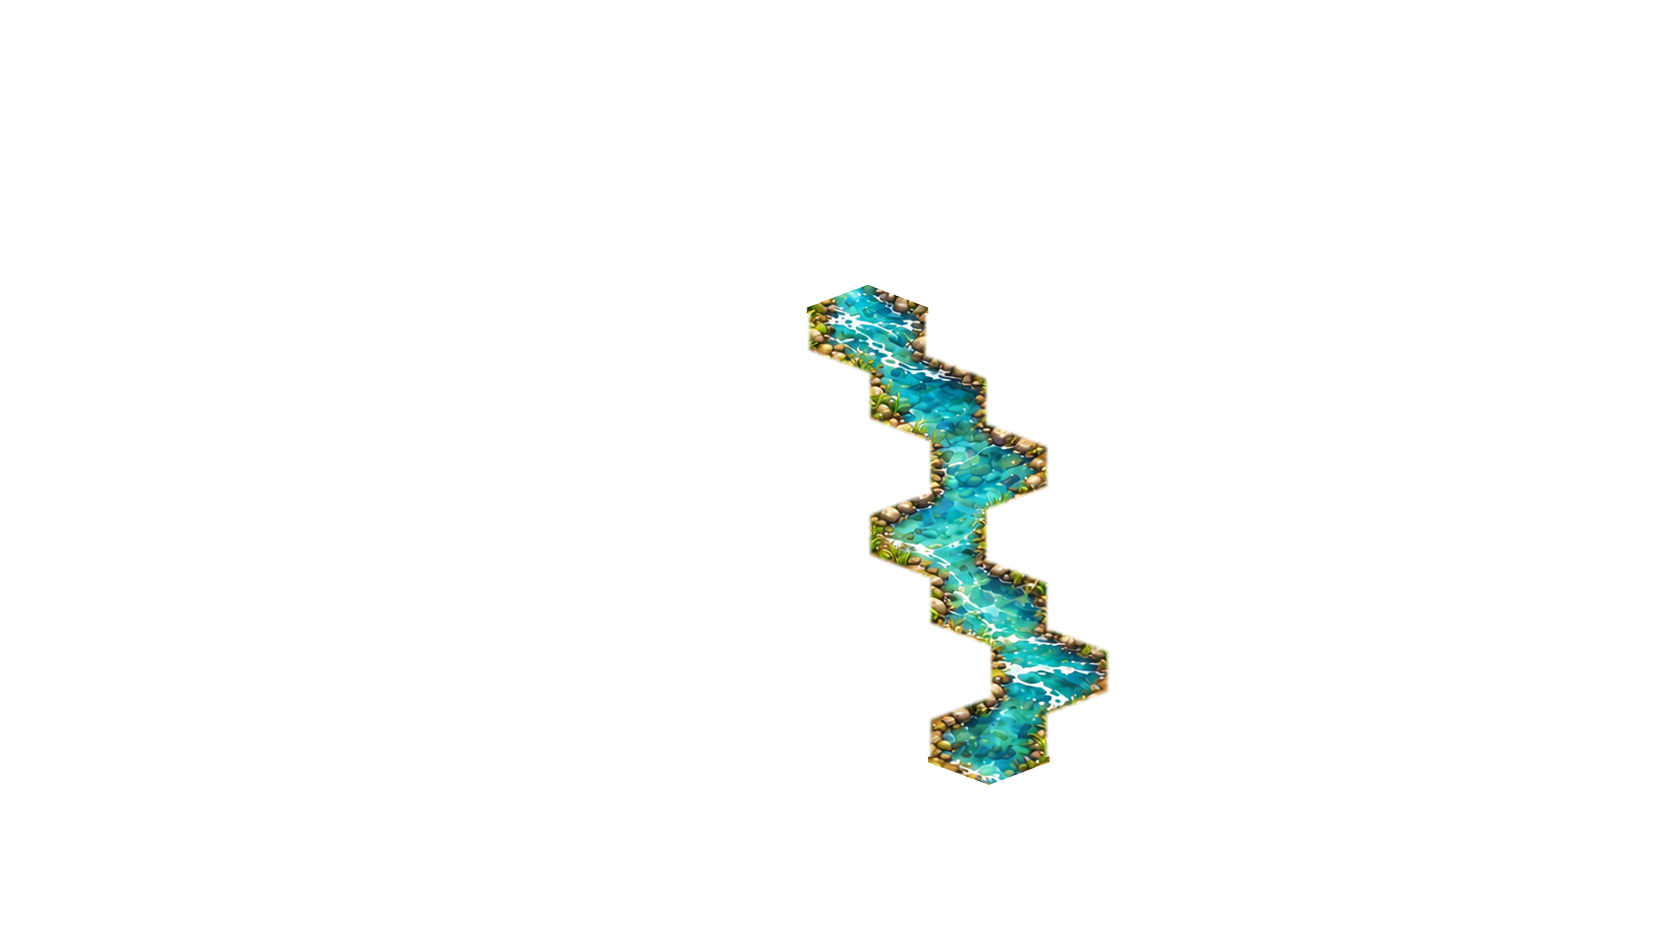
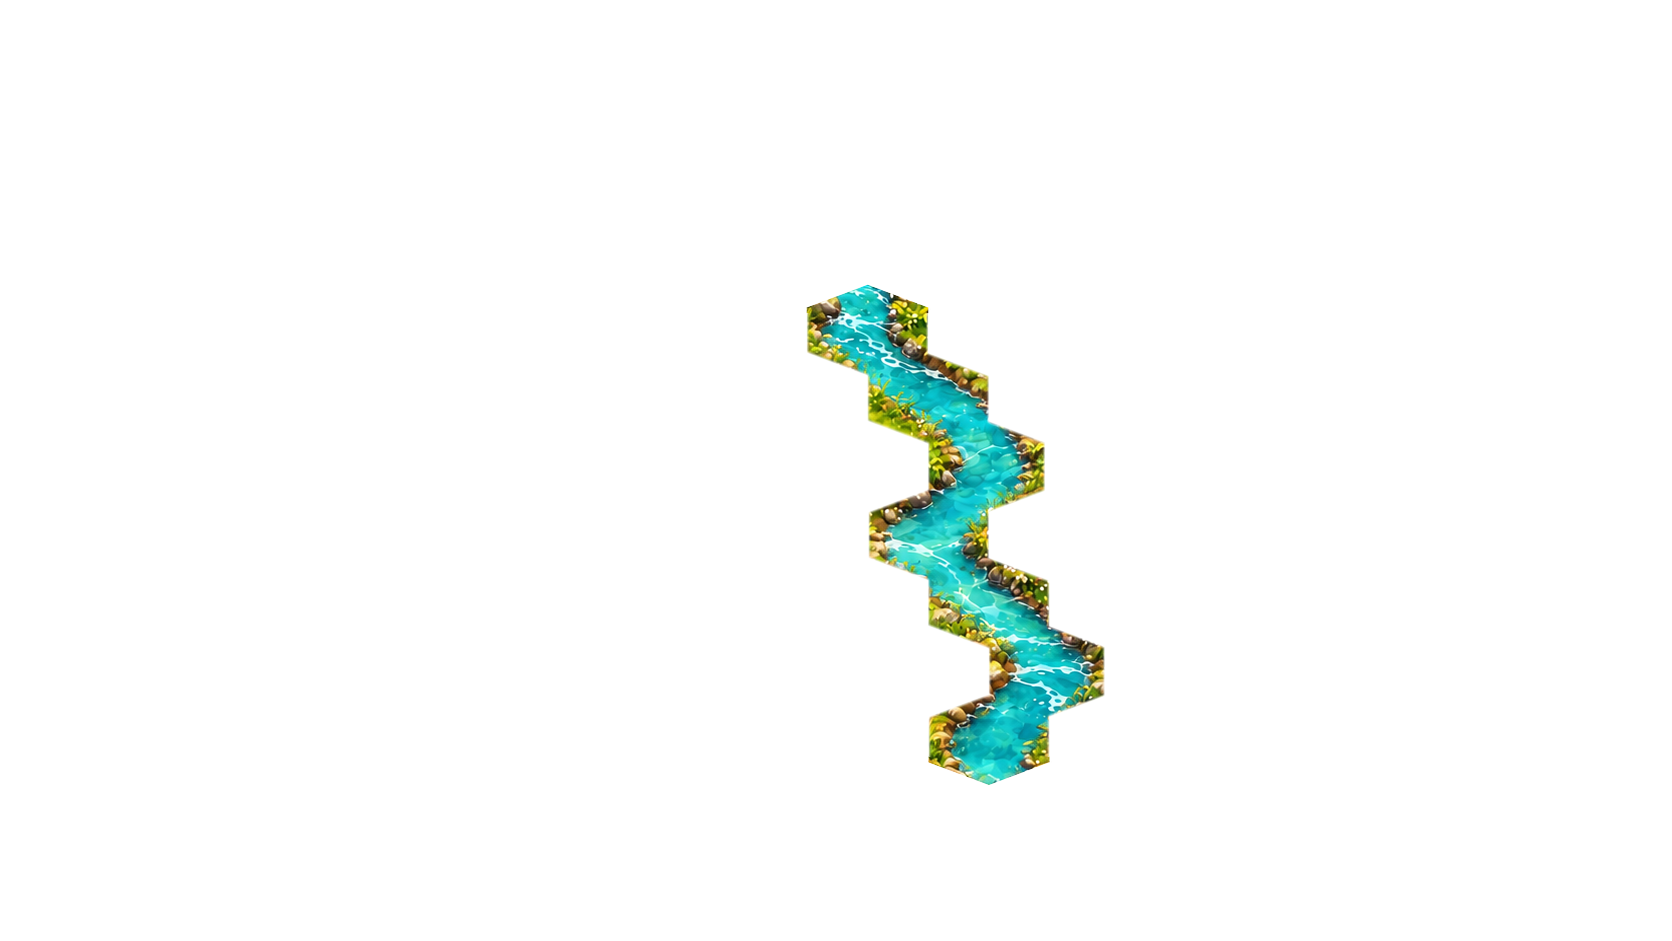
art(#46): separate smooth visible stream channel from full logical water polygons

Changed region(s): [[0.4665, 0.3082, 0.6842, 0.8321]]

diff --git a/scripts/art-v9-stream-pilot.py b/scripts/art-v9-stream-pilot.py
@@ -29,6 +29,9 @@ free = polygon_mask([c for c in cells if c['terrain'] is None])
 dry_path = base/'candidates/stream-dry-v1.png'
 continuation_path = base/'candidates/stream-continuation-v1.png'
 banks_path = base/'candidates/stream-bankstrip-generated-v2.png'
+curved_path=base/'candidates/stream-curved-channel-generated-v3.png'
+curved=curved_path.exists()
+if curved:banks_path=curved_path
 dry = Image.open(dry_path).convert('RGBA')
 continuation = Image.open(continuation_path).convert('RGBA')
 banks = Image.open(banks_path).convert('RGBA')
@@ -39,9 +42,11 @@ decorative.putalpha(outside)
 logical = banks.copy()
 # Feather only the inside of the banks. The first/last water-cell edges at the
 # complete board perimeter remain fully open to decorative continuation.
-side_soft = ImageChops.multiply(water, water.filter(ImageFilter.MinFilter(7)).filter(ImageFilter.GaussianBlur(1.4)))
+visual_body=Image.open(out/'visual-water-body-mask.png') if curved else water.copy()
+visual_art=Image.open(out/'visual-water-and-bank-mask.png') if curved else water.copy()
+side_soft = ImageChops.multiply(visual_art, visual_art.filter(ImageFilter.MinFilter(3 if curved else 7)).filter(ImageFilter.GaussianBlur(1 if curved else 1.4)))
 board_edge = ImageChops.subtract(board,board.filter(ImageFilter.MinFilter(13)))
-art_alpha = ImageChops.lighter(side_soft,ImageChops.multiply(water,board_edge))
+art_alpha = ImageChops.lighter(side_soft,ImageChops.multiply(visual_art,board_edge))
 free_interior = free.filter(ImageFilter.MinFilter(3)).point(lambda a:255 if a>250 else 0)
 art_alpha = ImageChops.multiply(art_alpha,ImageChops.invert(free_interior))
 logical.putalpha(art_alpha)
@@ -105,13 +110,42 @@ bridge=next(p for p in geometry['pieces'] if p['kind']=='bridge')
 bridge_alpha={cid:at(cid) for cid in bridge['cells']}
 assert list(bridge_alpha.values())==[255,0,0],bridge_alpha
 assert at('5,2')==0 and at('6,2')==255
+body=visual_body
+def body_at(cid):
+    p=byid[cid]['center'];return body.getpixel((round(p['x']),round(p['y'])))
+body_bridge={cid:body_at(cid) for cid in bridge['cells']}
+assert list(body_bridge.values())==[255,0,0],body_bridge
+body_centers={c['id']:body_at(c['id']) for c in cells if c['terrain']=='water'}
+assert all(a==255 for a in body_centers.values()),body_centers
+body_free=sum(a>250 and b==255 for a,b in zip(body.getdata(),free_interior.getdata()))
+assert body_free==0
+contacts={}
+middle=byid[bridge['cells'][0]]['center']
+for cid in ['6,0','6,2']:
+    other=byid[cid]['center'];point=(round((middle['x']+other['x'])/2),round((middle['y']+other['y'])/2))
+    contacts[cid]={'point':point,'alpha':body.getpixel(point)}
+assert all(v['alpha']==255 for v in contacts.values()),contacts
+# Flood the actual visible body, rather than substituting the logical mask.
+seed=byid['6,0']['center'];seed=(round(seed['x']),round(seed['y']))
+pixels=body.load();visited={seed};pending=[seed]
+while pending:
+    x,y=pending.pop()
+    for point in [(x-1,y),(x+1,y),(x,y-1),(x,y+1)]:
+        a,b=point
+        if 0<=a<size[0] and 0<=b<size[1] and point not in visited and pixels[a,b]>=128:
+            visited.add(point);pending.append(point)
+connected_centers={c['id']:(round(c['center']['x']),round(c['center']['y'])) in visited for c in cells if c['terrain']=='water'}
+assert all(connected_centers.values()),connected_centers
 sha=lambda p:hashlib.sha256(p.read_bytes()).hexdigest()
 report={'status':'exact-mask-checks-passed-native-art-review-pending','canvas':list(size),
     'camera':geometry['camera'],'boardCells':len(cells),'waterCells':[c['id'] for c in cells if c['terrain']=='water'],
     'fullFreePolygonInteriorOpaqueLeakPixels':leaks,'rasterBoundaryTolerancePx':1,
     'fullFreePolygonInteriorChangedRgbPixels':free_changes,
     'bridgeCenterAndEndsAlpha':bridge_alpha,'rejectedOldBendAlpha':at('5,2'),'acceptedNewBendAlpha':at('6,2'),
-    'logicalMaskErosionPx':0,'bankArtInwardFeatherPx':3,'entryExitFeather':'disabled within 6px of complete board perimeter',
+    'logicalMaskErosionPx':0,'visibleWaterContour':'separate curved artistic channel inside logical zone' if curved else 'full-logical-contour-rejected-by-actual-QA-P1',
+    'actualBodyMask':'visual-water-body-mask.png' if curved else 'logical-water-mask.png',
+    'actualBodyAudit':{'bridgeCenterAndDryEndsAlpha':body_bridge,'waterCellCenterAlpha':body_centers,'bridgeMiddleSharedWaterEdgeAlpha':contacts,'allWaterCellCentersInSameConnectedActualBody':connected_centers,'freeInteriorOpaqueLeakPixels':body_free,'status':'raster-contact-and-connectivity-passed-art-game-review-pending'},
+    'bankArtInwardFeatherPx':1 if curved else 3,'entryExitFeather':'disabled within 6px of complete board perimeter',
     'decorativeWater':'outside complete 77-cell union only; separate from logical layer',
     'sourceSha256':{str(p.relative_to(root)):sha(p) for p in [geometry_path,dry_path,continuation_path,banks_path]},
     'outputSha256':{p.name:sha(p) for p in sorted(out.glob('*.png'))},
@@ -126,6 +160,10 @@ manifest={'schemaVersion':1,'scene':'stream','activation':'inactive-source-hando
     'path':geometry['path'],
     'background':'background.webp','backgroundContent':'baked exact logical water plus guarded dry board and outside-board decorative continuation; do not stack logical-water.png again',
     'dryBackground':'dry-background.webp','logicalWaterOverlay':'logical-water.png','logicalWaterMask':'logical-water-mask.png',
+    'logicalWaterMaskRole':'immutable full accepted77-board water polygons for rules/diagnostic truth, not visible shoreline',
+    'visualWaterBodyMask':'visual-water-body-mask.png' if curved else None,
+    'visualWaterBankMask':'visual-water-and-bank-mask.png' if curved else None,
+    'waterArtOverlay':'logical-water.png','waterArtOverlayRole':'separate painted curved water and banks; legacy filename is not the full logical mask',
     'wide':{'file':'wide.webp',**wide_info},'geometry':str(geometry_path.relative_to(root)),
     'checks':'checks.json','status':'root-art-and-actual-game-review-pending'}
 (out/'manifest.json').write_text(json.dumps(manifest,indent=2)+'\n')

diff --git a/scripts/art-v9-stream-channel-guide.py b/scripts/art-v9-stream-channel-guide.py
@@ -1,0 +1,57 @@
+"""Separate the artistic stream channel from immutable logical water cells.
+
+The smooth guide is source-edit guidance, not an inferred gameplay footprint.
+All visible channel/bank alpha stays inside accepted logical water polygons.
+"""
+from pathlib import Path
+from PIL import Image,ImageDraw,ImageChops,ImageFilter
+import json,math
+root=Path(__file__).resolve().parents[1]
+base=root/'art/chapter-1-v9';out=base/'layers/water/stream-pilot'
+d=json.loads((base/'packages/stream/geometry.json').read_text())
+water_cells=[c for c in d['cells'] if c['terrain']=='water']
+water_cells.sort(key=lambda c:c['r'])
+points=[(850,260)]+[(c['center']['x'],c['center']['y']) for c in water_cells]+[(1015,810)]
+ground=[(x,y/.65) for x,y in points]
+samples=[]
+for i in range(len(ground)-1):
+ p0=ground[max(0,i-1)];p1=ground[i];p2=ground[i+1];p3=ground[min(len(ground)-1,i+2)]
+ for j in range(48):
+  t=j/48
+  coords=[]
+  for axis in (0,1):
+   a,b,c,e=p0[axis],p1[axis],p2[axis],p3[axis]
+   coords.append(.5*((2*b)+(-a+c)*t+(2*a-5*b+4*c-e)*t*t+(-a+3*b-3*c+e)*t*t*t))
+  samples.append(tuple(coords))
+samples.append(ground[-1])
+left=[];right=[]
+for i,(x,y) in enumerate(samples):
+ before=samples[max(0,i-1)];after=samples[min(len(samples)-1,i+1)]
+ dx=after[0]-before[0];dy=after[1]-before[1];length=math.hypot(dx,dy)
+ half=33+2.5*math.sin(i*.041)
+ nx=-dy/length*half;ny=dx/length*half
+ left.append((round((x+nx)*4),round((y+ny)*.65*4)))
+ right.append((round((x-nx)*4),round((y-ny)*.65*4)))
+body=Image.new('L',(6688,3764));ImageDraw.Draw(body).polygon(left+right[::-1],fill=255)
+body=body.resize((1672,941),Image.Resampling.LANCZOS)
+logical=Image.open(out/'logical-water-mask.png')
+body=ImageChops.multiply(body,logical)
+bank=ImageChops.multiply(body.filter(ImageFilter.MaxFilter(17)),logical)
+bank=ImageChops.multiply(bank,ImageChops.invert(Image.open(out/'free-mask.png').filter(ImageFilter.MinFilter(3)).point(lambda a:255 if a>250 else 0)))
+delivery_bank=ImageChops.multiply(body.filter(ImageFilter.MaxFilter(49)),logical)
+delivery_bank=ImageChops.multiply(delivery_bank,ImageChops.invert(Image.open(out/'free-mask.png').filter(ImageFilter.MinFilter(3)).point(lambda a:255 if a>250 else 0)))
+body.save(out/'visual-water-body-mask.png')
+delivery_bank.save(out/'visual-water-and-bank-mask.png')
+dry=Image.open(out/'dry-background.webp').convert('RGB')
+material=Image.open(base/'candidates/water-material-v1.png').convert('RGB')
+target=Image.composite(material,dry,body)
+target.save(base/'candidates/stream-curved-channel-edit-target-v3.png')
+guide=target.convert('RGBA')
+bank_strip=ImageChops.subtract(bank,body)
+for color,mask in [((180,80,15,255),bank_strip),((0,210,255,255),body)]:
+ layer=Image.new('RGBA',guide.size,color);layer.putalpha(mask.point(lambda a:round(a*.6)));guide=Image.alpha_composite(guide,layer)
+outline=ImageChops.subtract(logical,logical.filter(ImageFilter.MinFilter(3)))
+layer=Image.new('RGBA',guide.size,(255,40,180,255));layer.putalpha(outline);guide=Image.alpha_composite(guide,layer)
+guide.save(out/'curved-channel-edit-guide.png')
+(out/'visual-channel-contract.json').write_text(json.dumps({'purpose':'artistic channel only; exact logical-water-mask.png remains unchanged gameplay truth','groundScale':.65,'method':'smooth Catmull-Rom centerline through all accepted water-cell centers;66±5px ground width;8px source-edit shoreline guidance;24px delivery art support to retain whole painted stones/earth and adjacent dry grass; clipped inside logical union','controlPoints':points,'waterCellCenters':{c['id']:c['center'] for c in water_cells},'logicalWaterMask':'logical-water-mask.png','actualVisualWaterBodyMask':'visual-water-body-mask.png','actualArtBankMask':'visual-water-and-bank-mask.png','status':'guide-only-native-art-and-game-review-pending'},indent=2)+'\n')
+print('Stream curved channel guide prepared; logical mask unchanged')

diff --git a/docs/chapter-1-rc/art/STREAM-ROAD-PILOT-HANDOFF.md b/docs/chapter-1-rc/art/STREAM-ROAD-PILOT-HANDOFF.md
@@ -12,10 +12,16 @@ Resources only; no runtime, common manifest, activation, merge or deploy changes
 
 ## Reproduction and checks
 
-Run `python3 art/road-v1/encode.py` and `python3 scripts/art-v9-stream-pilot.py`.
+Run `python3 art/road-v1/encode.py`, `python3 scripts/art-v9-stream-channel-guide.py`, then `python3 scripts/art-v9-stream-pilot.py`.
 
 The rebuilt stream report is `layers/water/stream-pilot/checks.json`, distinct from the stale earlier `layers/water/checks.json`. It verifies the accepted 77-cell board and seven actual water cells; opaque water leak into full free-cell interiors is 0px (1px raster boundary tolerance); every dry free-cell interior has 0 changed RGB pixels; bridge center/end alpha is 255/0/0; rejected old bend is 0 and accepted new bend is 255. Logical masks have no erosion. Bank art feathers inward along sides only; first/last cells stay open at the complete board perimeter. Decorative continuation is clipped outside the complete board union, not outside just free cells.
 
-Four built-in imagegen edits are retained with exact prompts and source paths: charoite central-cross repair, water-side bank strip, wide outpaint v1/v2 (v1 rejected). No external stock or runtime generation. The road edit restores original outer pixels before inverse offset. No mirrored stones, baked route, camera or CSS offset was introduced.
+Five built-in imagegen edits are retained with exact prompts and source paths: charoite central-cross repair, water-side bank strip, wide outpaint v1/v2 (v1 rejected), and the curved channel correction. No external stock or runtime generation. The road edit restores original outer pixels before inverse offset. No mirrored stones, baked route, camera or CSS offset was introduced.
 
-These raster checks do not certify natural banks, invisible wide joins, tiling appearance, bridge grounding or actual gameplay. Coordinator must review the installed earth→charoite→bank→bridge→bank fragment and real desktop/touch inputs, move/rotate/return/undo/save/reload before activation. Physical phone remains NOT RUN. Mill is not changed by this pilot.
+These raster checks do not certify natural banks, invisible wide joins, tiling appearance, bridge grounding or actual gameplay. Coordinator must review the installed earth→charoite→bank→bridge→bank fragment and real desktop/touch inputs, move/rotate/return/undo/save/reload before activation. Physical phone remains NOT RUN. The mill source checkpoint is separate and inactive.
+
+## P1 correction after independent actual-game QA c64b249
+
[1 lines of base64/hex data omitted]
+
+The actual visual-body raster checks independently verify all seven water-cell centers are opaque and in one connected body, bridge center/dry ends are 255/0/0, and the bridge middle's two shared water-edge contacts are opaque. Full free-interior RGB remains unchanged. These checks do not classify individual source-painted shoreline pixels by color or replace actual-game artistic review. Source/prompt/guide for the curved bank edit is `production-sources/stream-curved-channel-generated-v3.json`. The prior stepped source is preserved as rejected for P1. No runtime, road P2 treatment or other scene was rolled out by this correction.
